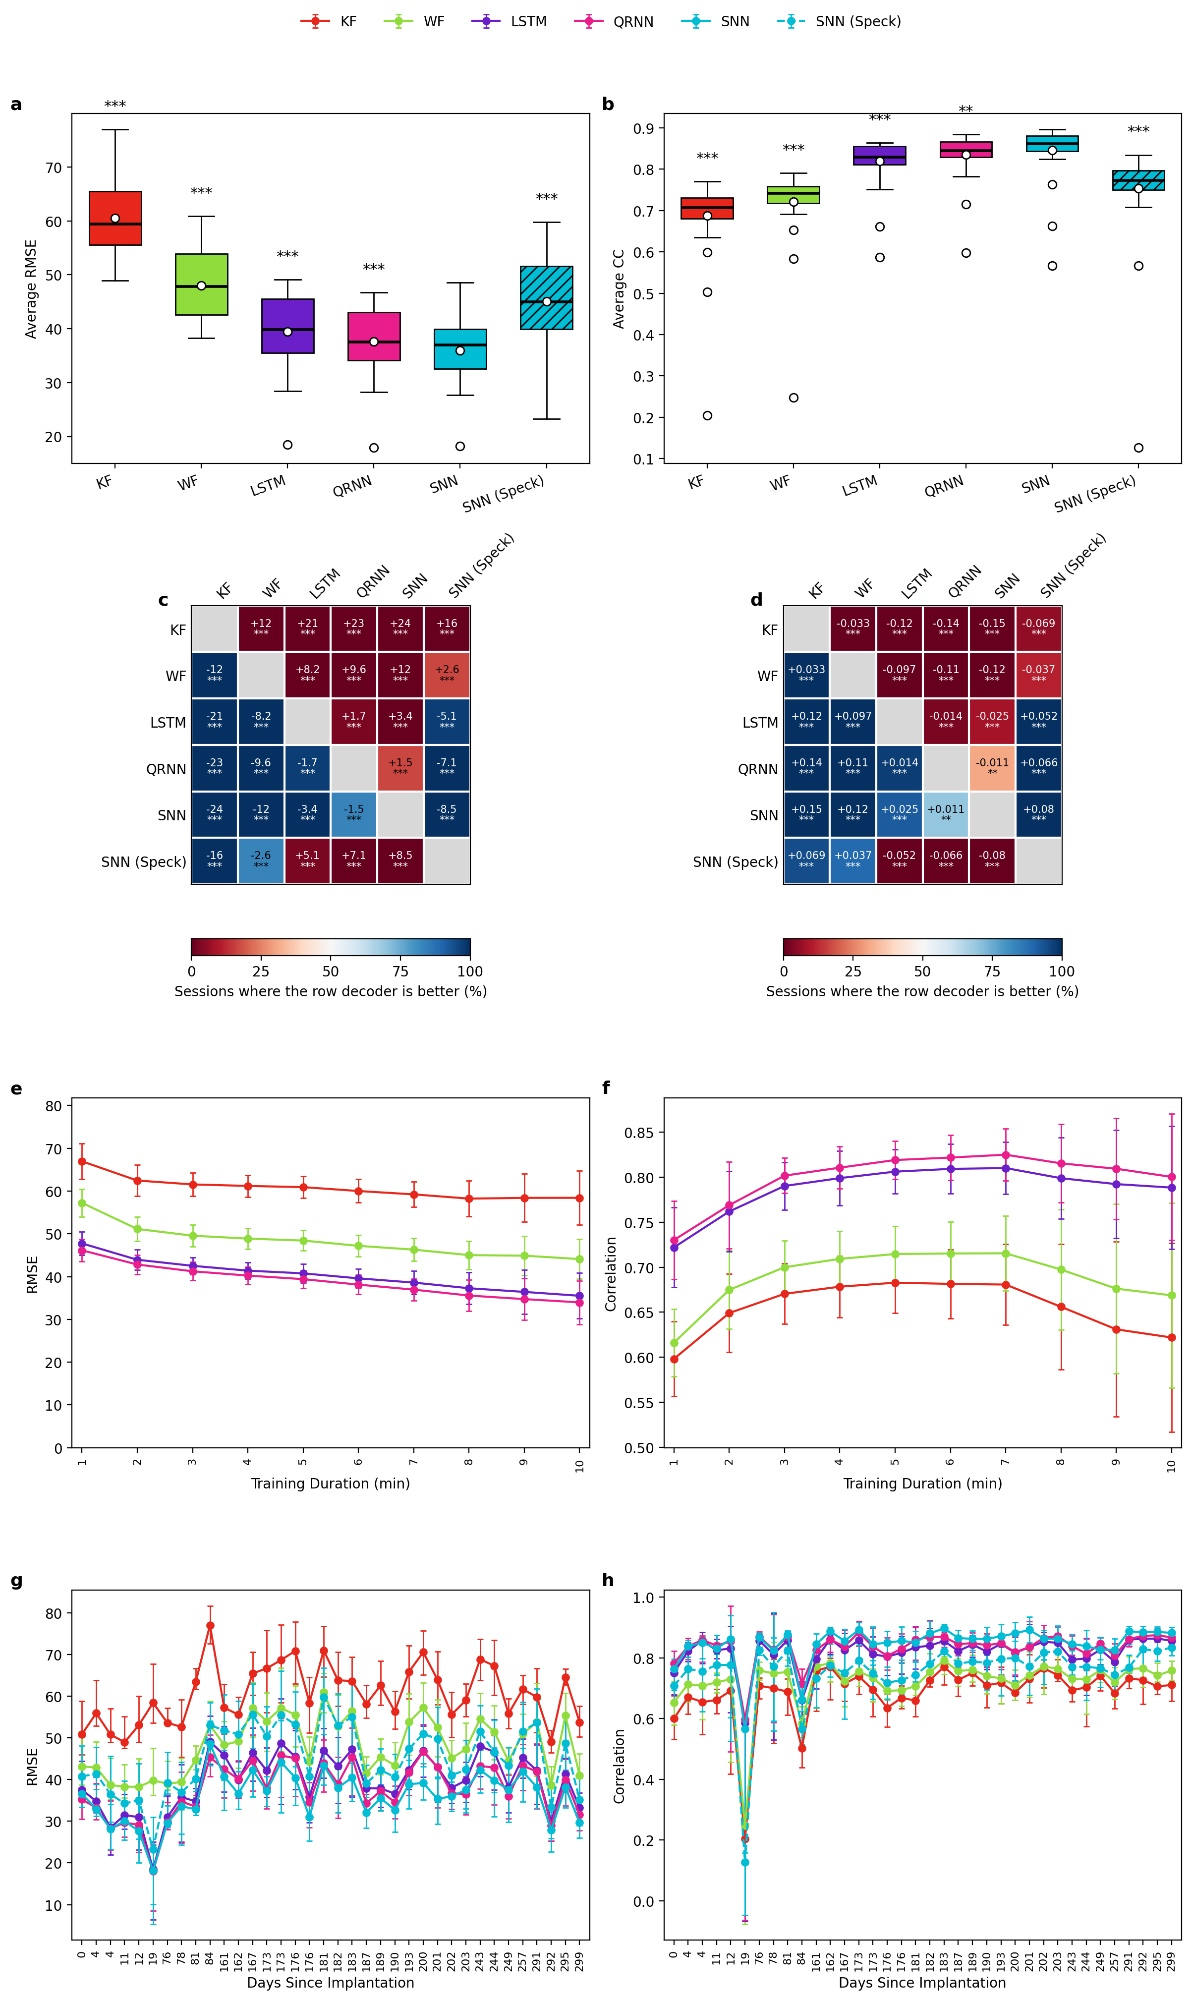
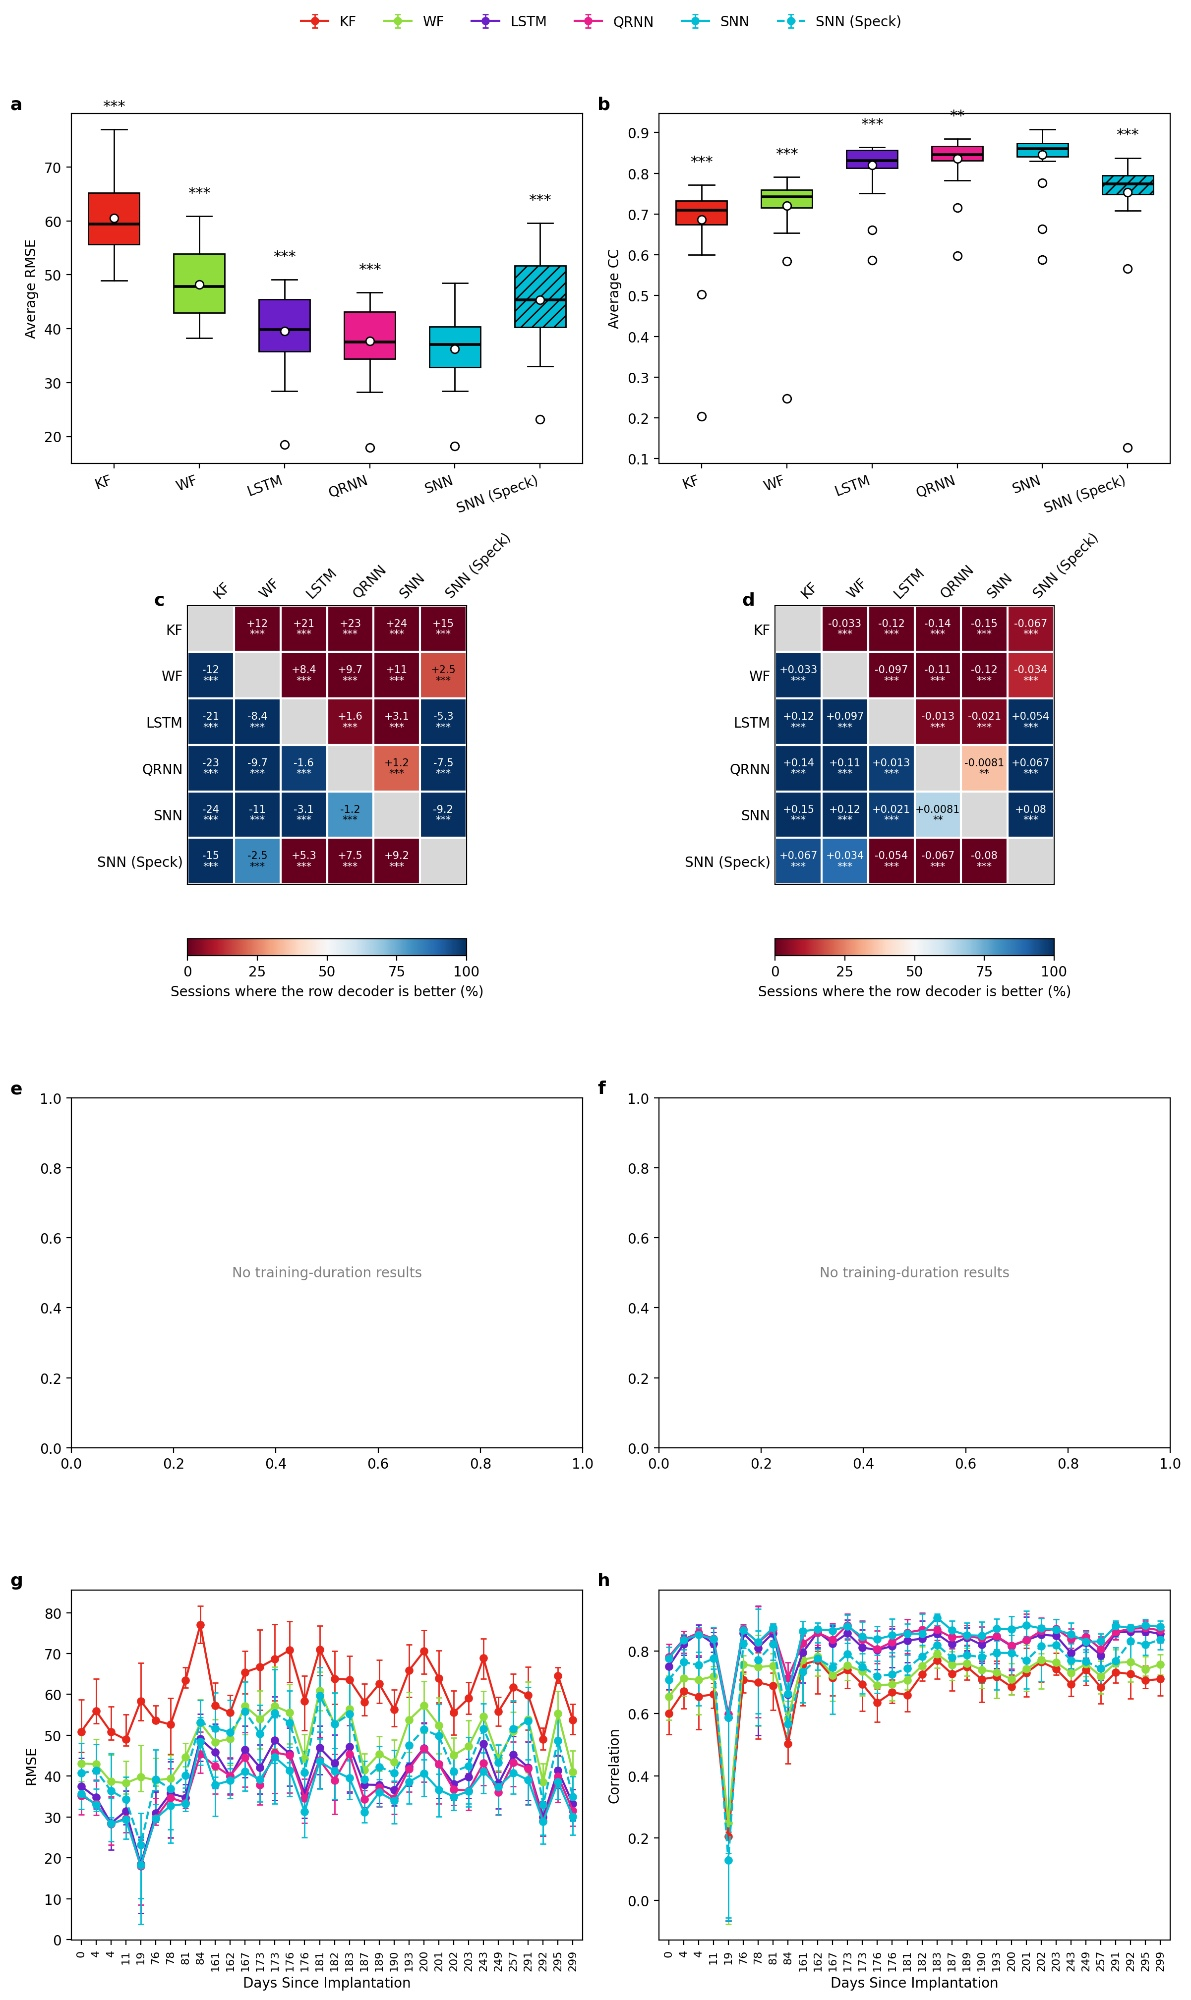
README: results from the laptop run, layer spike density figure, how the figures were made
- New 4x2, efficiency and energy figures (all decoders on the Speck laptop;
  SNN = loso_finetuned_optimal, Speck = per-session hard reset); table and
  takeaways updated, with exact latencies and the mean power per decoder.
- e/f of the 4x2 figure are empty in this run; noted, with the command that
  restores them.
- New section on the per-layer spike density (PyTorch vs. chip).
- New section on how accuracy, latency, energy/power (RAPL, proxy, chip
  power monitor) and spike density are computed.

Claude-Session: https://claude.ai/code/session_0153LKy5ieYzBFo4qzGEqhrb

diff --git a/README.md b/README.md
@@ -76,6 +76,11 @@ it. Data live under one root (`BMI_DATA_ROOT` / `DATA_ROOT`), laid out as
      the chip's output spikes with the quantized network's step by step: spike ratio,
      agreement, delay, re-decoding and a cross-validated readout re-fit. It writes
      `speck_diagnosis.json`.
+   - It also draws the layer-activity figure, `speck_layer_activity_<session>.png`, and the
+     same data animated as `speck_layer_activity_<session>.gif` (see
+     [How the figures were made](#how-the-figures-were-made)). With
+     `--speck_devkit speck2fdevkit:0` the Speck half is recorded on the chip; without it,
+     the quantized network is emulated on the host.
    - `probe_speck.py` (with the devkit) measures how a single chip neuron integrates and
      fires.
    - `compare_speck_runs.py` draws the figure below from up to three
@@ -85,25 +90,28 @@ it. Data live under one root (`BMI_DATA_ROOT` / `DATA_ROOT`), laid out as
 
 ### Decoders (indy, 36 sessions)
 
-- **PyTorch SNN:** `full_cohort_finetuned_optimal` checkpoints (pretrained on all sessions,
-  fine-tuned per session).
+- **PyTorch SNN:** `loso_finetuned_optimal` checkpoints (pretrained, then fine-tuned per
+  session).
 - **Speck:** per-session hard-reset checkpoints, the best case for the chip (see below).
 - **Where it ran:** everything on the Speck-connected laptop. Training durations come from
   the cluster.
 
 ![Decoder comparison, indy](docs/decoder_comparison_4x2_indy.jpg)
 
-| decoder | RMSE | CC | latency / sample | energy / sample |
-|---|---|---|---|---|
-| KF | 60.5 | 0.69 | 0.010 ms | ≈ 500 µJ (RAPL) |
-| WF | 48.0 | 0.72 | 0.05 ms | ≈ 2,000 µJ (RAPL) |
-| LSTM | 39.5 | 0.82 | ≈ 35 ms | ≈ 1.2 J (RAPL) |
-| QRNN | 37.6 | 0.83 | ≈ 35 ms | ≈ 1.2 J (RAPL) |
-| SNN (PyTorch, CPU) | **36.0** | **0.84** | ≈ 0.65 ms | ≈ 24,000 µJ (RAPL) |
-| SNN on Speck2f | 45.1 | 0.75 | ≈ 1.3 ms | **2.7 µJ** (chip power monitor) |
+| decoder | RMSE | CC | latency / sample | energy / sample | mean power |
+|---|---|---|---|---|---|
+| KF | 60.5 | 0.69 | 10.4 µs | 490 µJ (RAPL) | 45.9 W |
+| WF | 48.2 | 0.72 | 50.9 µs | 2.19 mJ (RAPL) | 42.9 W |
+| LSTM | 39.5 | 0.82 | 35.2 ms | 1.23 J (RAPL) | 34.7 W |
+| QRNN | 37.6 | 0.83 | 35.7 ms | 1.24 J (RAPL) | 34.8 W |
+| SNN (PyTorch, CPU) | **36.2** | **0.85** | 634 µs | 24 mJ (RAPL) | 37.8 W |
+| SNN on Speck2f | 45.3 | 0.75 | 1.27 ms | **2.73 µJ** (chip power monitor) | **2.15 mW** |
 
-These are means across sessions, rounded. The exact values are in
+These are means across sessions; RMSE and CC are rounded. The exact values are in
 `results/test_all_decoders/bmi/indy/` (`combined_metrics.json`, `efficiency_summary.json`).
+Energy per sample = mean power × latency per sample (see
+[How the figures were made](#how-the-figures-were-made)): the CPU decoders all draw
+35–46 W, so their energy differs mainly through their latency.
 
 **How to read the 4x2 figure**
 - **a/b:** one point per session. The box spans the quartiles, the line is the median, the
@@ -112,29 +120,34 @@ These are means across sessions, rounded. The exact values are in
   for multiple comparisons (Holm).
 - **c/d, colour:** how often the row decoder beats the column decoder across sessions.
 - **c/d, text:** the median paired difference (row − column), with Holm-corrected stars.
+- **e/f** are empty in this version: the laptop run did not carry over the cluster's
+  training-duration results. The training-data takeaways below are from the earlier report;
+  `run_inference.sbatch --report bmi indy DURATIONS_JSON=<cluster combined_metrics_durations.json>`
+  restores the panels.
 
 **Takeaways**
 - **Accuracy.** The fine-tuned SNN is the most accurate decoder on both RMSE and CC.
-  - It beats QRNN by a median 1.5 RMSE and 0.011 CC per session (RMSE p < 0.001, CC p < 0.01).
-  - It beats LSTM by 3.4 RMSE and 0.025 CC.
+  - It beats QRNN by a median 1.2 RMSE and 0.008 CC per session (RMSE p < 0.001, CC p < 0.01).
+  - It beats LSTM by 3.1 RMSE and 0.021 CC.
   - The margins over the recurrent networks are small but consistent: the SNN wins in
     most sessions.
-- **Speck.** The chip is 8.5 RMSE (0.08 CC) behind the fine-tuned SNN, but it still
-  beats both classical decoders in paired comparisons.
-  - Against WF: 2.6 RMSE better, 0.037 CC better.
-  - Against KF: 16 RMSE better.
+- **Speck.** The chip is a median 9.2 RMSE (0.08 CC) behind the fine-tuned SNN, but it
+  still beats both classical decoders in paired comparisons.
+  - Against WF: 2.5 RMSE better, 0.034 CC better.
+  - Against KF: 15 RMSE better, 0.067 CC better.
   - About 2 RMSE of the gap is the chip's own penalty: the same per-session checkpoints
     score about 43.4 in PyTorch.
   - The rest is the choice of model. The fine-tuned checkpoints lose more on the chip than
     they gain (see below).
-- **Energy.** Speck needs about 2.7 µJ per sample.
+- **Energy.** Speck needs 2.73 µJ per sample, at a mean chip power of 2.15 mW.
   - That is about 9,000× less than the SNN on the laptop CPU.
   - It is about 450,000× less than LSTM/QRNN.
   - It is about 180× less than even the Kalman filter.
   - RAPL measures the whole CPU package and the chip monitor only the chip, so these ratios
     compare deployments, not arithmetic.
-- **Latency.** Speck takes about 1.3 ms per 4 ms bin, so it keeps up in real time. The SNN
-  on CPU takes about 0.65 ms, LSTM/QRNN about 35 ms (slower than the 4 ms bins they decode).
+- **Latency.** Speck takes 1.27 ms per 4 ms bin, so it keeps up in real time; about 1 ms of
+  that is the fixed wait before its output is read (`--speck_wait_time`). The SNN on CPU
+  takes 0.63 ms, LSTM/QRNN about 35 ms (slower than the 4 ms bins they decode).
 - **Training data (e/f; KF, WF, LSTM, QRNN only).**
   - Every decoder improves with more training data, most steeply in the first 2–3 minutes.
   - LSTM and QRNN trained on 2 minutes already match WF trained on 10.
@@ -153,8 +166,8 @@ These are means across sessions, rounded. The exact values are in
 
 **Bottom line.**
 - **Off-chip:** the pretrained and fine-tuned SNN is the most accurate decoder tested. It
-  is also 50× faster than the recurrent networks and uses 50× less energy than them on the
-  same CPU.
+  is also about 55× faster than the recurrent networks and uses about 50× less energy than
+  them on the same CPU.
 - **On Speck:** the SNN decodes in real time at a few µJ per sample. It beats the
   classical decoders, at a cost of about 9 RMSE relative to the best PyTorch SNN.
 - **What limits Speck:** the chip's per-event dynamics (below), not quantization or the
@@ -215,6 +228,112 @@ The chip adds more error the more a model relies on stored state:
 | per-session | each spike wipes the membrane | 1.9 |
 | fine-tuned | fewer spikes, longer-lived sub-threshold charge | 4.4 |
 | soft reset | every spike's remainder is kept | 8.2 |
+
+### Spike density through the layers
+
+One test trial (3 s) of one session, through the per-session Speck checkpoint (96 inputs →
+256 → 128 → 64 → 36 outputs), in PyTorch (top) and recorded on the chip with every layer
+monitored (bottom). Colour is spike density, the mean over a layer's neurons of spikes per
+timestep, in 20 ms bins; each layer's mean over the trial is printed on the right.
+`speck_layer_activity_<session>.gif` animates the same data, the layers drawn left to right.
+
+![Spike density by layer, PyTorch vs. Speck](docs/speck_layer_activity_indy.png)
+
+| layer | PyTorch | Speck | Speck / PyTorch |
+|---|---|---|---|
+| input (96) | 0.054 | 0.054 | 1.0× |
+| hidden 1 (256) | 0.035 | 0.041 | 1.2× |
+| hidden 2 (128) | 0.056 | 0.078 | 1.4× |
+| hidden 3 (64) | 0.087 | 0.146 | 1.7× |
+| output (36) | 0.232 | 0.459 | 2.0× |
+
+- **The chip's excess activity builds up layer by layer.** With identical input, the first
+  hidden layer fires 1.2× as much as in PyTorch and the output 2×. That matches the
+  output-spike ratio in the table above (1.9× for the per-session run). It fits the per-event
+  dynamics described there: each layer adds a little extra firing, and the next layer
+  amplifies it.
+- **The chip's spikes arrive in bursts.** In the chip rows, every hidden and output layer
+  is silent together for one or two 20 ms bins at a time, while the input keeps arriving.
+  This was not investigated further. Because all layers drop out together, it most likely
+  reflects how the monitored events reach the host (they are counted in the timestep in
+  which they are read), not the network itself. Monitoring every layer streams all of their
+  spikes to the host, which the normal decoding run does not do.
+
+## How the figures were made
+
+Every decoder is scored on the same rows of each session's chronological test split (the
+last 10% of the session), with velocity in mm/s. The report figures are drawn by
+`inference/make_report.py` from the per-session results of `inference/test_all_decoders.py`;
+the layer-activity figure by `inference/diagnose_speck.py`.
+
+**Accuracy (4x2 figure, a–d, g–h)**
+- **RMSE:** per velocity axis over all test rows of a session, then averaged over x and y.
+- **CC:** Pearson correlation per axis, averaged over x and y.
+- **Error bars in g/h:** a 95% t-interval over 10 contiguous chunks of the test split.
+- **Statistics:** paired Wilcoxon signed-rank tests across sessions, Holm-corrected within
+  each panel. Only sessions with results for every decoder are used.
+
+**Latency** (`inference/profiling.py`; `inference/speck.py` for Speck)
+- **One prediction per call, never batched,** as a real-time decoder runs: one new 4 ms
+  sample at a time, so per-call framework overhead counts.
+- **CPU decoders:** 50 test samples (`--n_timing_samples`) are predicted one per call. After
+  untimed warm-up passes (Keras traces its graph on the first call), latency is the median
+  over 3 timed passes (2 for LSTM, QRNN and SNN) of the pass time divided by the number of
+  samples.
+- **SNN (PyTorch):** fed one timestep per forward call, with state reset only at the start
+  of a test trial.
+- **Speck:** wall time per timestep of the chip loop over the whole test split. Each step
+  writes that step's input spikes to the chip as events, waits `--speck_wait_time` (1 ms),
+  then reads the output layer's spikes. The wait is part of the latency.
+- **Threads:** math libraries are pinned to one thread on the laptop
+  (`ENERGY_METER_NUM_THREADS=1`), so the CPU decoders are timed on one core.
+- **Efficiency figure:** means across sessions, one panel per machine (here, everything ran
+  on the Speck laptop). Marker area grows with the square root of the parameter count.
+
+**Energy and power** (`inference/energy_meter.py`; `inference/speck.py` for Speck)
+- **CPU decoders, RAPL (measured):** a separate, longer block of 10 passes
+  (`--n_energy_repeats`) runs between two reads of the Intel RAPL energy counters of the CPU
+  package domains (`/sys/class/powercap/intel-rapl/intel-rapl:N/energy_uj`, domains named
+  `package-N`; platform domains such as `psys` are excluded). Energy per sample is the
+  difference divided by the number of predictions in the block. Mean power is the same
+  difference divided by the block's wall time.
+- **CPU decoders, proxy (estimated):** where RAPL cannot be read (no Intel CPU, or no read
+  permission), energy is estimated as elapsed time × the process's CPU utilisation × an
+  assumed 65 W TDP. It is only good for comparing workloads with each other, so the energy
+  figure draws proxy estimates in their own "Estimated (proxy, not measured)" panel. All
+  results above are RAPL.
+- **Speck (measured):** the devkit's power monitor samples the chip's supply rails at
+  100 Hz during the decoding loop. Mean power is the sum over rails of each rail's mean
+  sample, after checking the sample count against 100 Hz × loop time. Energy per sample is
+  mean power × loop time ÷ number of timesteps.
+- **What is included:**
+  - RAPL measures the whole CPU package: all cores, the uncore, the idle baseline and
+    anything else running. No idle baseline is subtracted, which is why every CPU decoder
+    draws 35–46 W.
+  - The chip monitor measures only the chip, not the laptop that drives it over USB or runs
+    the host-side readout.
+  - The ratios between them compare deployments, not arithmetic.
+- **Energy figure:** each bar is the mean across sessions, with a 95% CI, labelled with its
+  energy per sample and mean power.
+
+**Spike density** (`diagnose_speck.py`; `speck.run_layers()` and `SpeckDevkit(monitor_all=True)`)
+- **Trial:** one test trial of one session (`--figure_session`, `--figure_trial`; default
+  the first scored trial), first 750 timesteps (3 s; `--figure_start`, `--figure_steps`).
+  Both networks start the trial from rest.
+- **PyTorch:** the checkpoint's Linear/IAF stack is stepped one timestep at a time, and
+  every neuron layer's output spikes are recorded.
+- **Speck:** the same input is fed to the chip with monitoring enabled on every layer, and
+  each layer's spike events are counted per neuron and timestep. Events still in flight
+  after the wait are counted in a later timestep. Without a devkit, the quantized network
+  as deployed (8-bit weights, integer thresholds) is emulated on the host instead.
+- **Density:** a layer's spike counts are averaged over its neurons and over bins of 5
+  timesteps (20 ms; `--figure_bin`), giving spikes per neuron per timestep. It can exceed 1,
+  because a neuron can fire several spikes per timestep.
+- **Colour:** one sequential colour map for both networks, on a square-root scale so that
+  sparse hidden layers stay visible next to the denser output layer.
+- **GIF:** the same densities, colours and scale. Each frame is one bin, and the layers are
+  drawn left to right in the direction spikes travel, with box height following neuron
+  count. 10 frames per second (`--figure_fps`) plays the trial at one-fifth real time.
 
 ## Requirements
 
